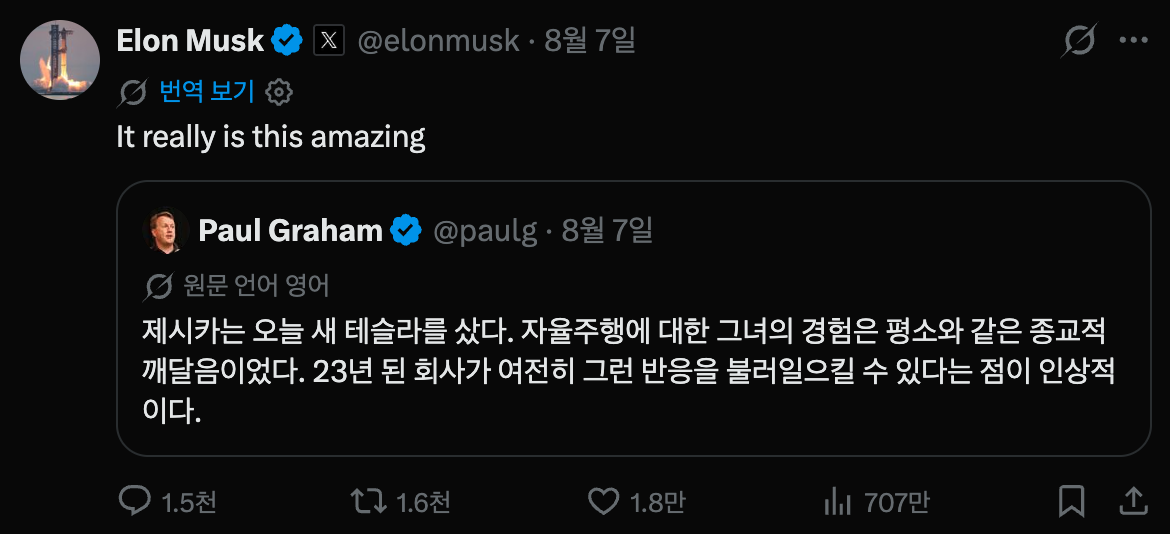
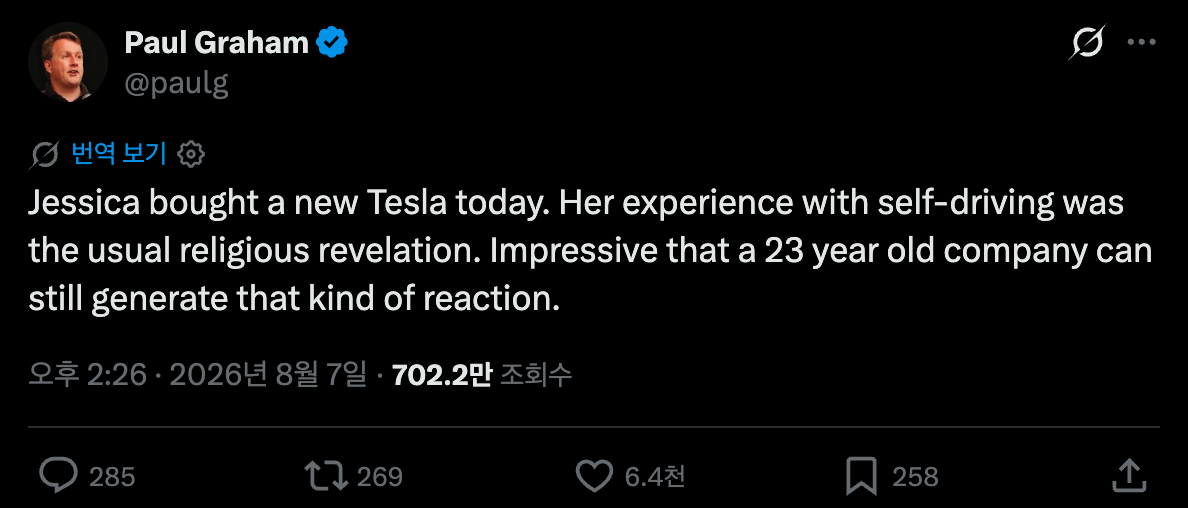
Replace X translation comparison images

diff --git a/presentation/surfers-3rd-presentation-template.html b/presentation/surfers-3rd-presentation-template.html
@@ -3073,7 +3073,7 @@
             </div>
             <div class="visual" aria-label="전세계 개발자 연봉 총합">
               <div class="vibe-market-stat">
-                <p class="vibe-market-label">전세계 개발자 연봉 총합</p>
+                <p class="vibe-market-label">전세계 개발자 연봉 총합 추정치</p>
                 <p class="vibe-market-value">1000조원</p>
               </div>
             </div>
@@ -3086,7 +3086,7 @@
             <div class="chapter-label">래퍼 서비스 사례</div>
             <div class="copy copy--center copy--wide">
               <p class="kicker">VIBE CODING</p>
-              <h1 class="title title--center">이 분야는 앞으로 어떨까?<br />코딩쪽은 빅테크와의 경쟁이 쉽지 않을 것 같고<br />다른 버티컬로 뾰족하면 당분간은 생존할 것 같다</h1>
+              <h1 class="title title--center">이 분야는 앞으로 어떨까?<br />코딩쪽은 빅테크와의 경쟁이 쉽지 않을 것 같고<br />뾰족한 버티컬을 찾으면 당분간 생존하지 않을까..</h1>
             </div>
           </article>
         </section>
@@ -3132,7 +3132,7 @@
             <div class="chapter-label">래퍼 서비스 사례</div>
             <div class="copy copy--split">
               <p class="kicker">STUDY</p>
-              <h1 class="title">학습 도우미라고 했지만<br />사실 숙제 베낄때 쓴다는..</h1>
+              <h1 class="title">학습 도우미라고 했지만<br />사실 숙제 베낄때 쓴다고..</h1>
             </div>
             <div class="visual" aria-label="AI 학습 도우미로 수학 문제를 촬영하는 화면">
               <img class="study-example-image" src="./assets/study-homework-screenshot.png" alt="수학 문제를 촬영해 풀이를 받는 AI 학습 도우미 화면" />
